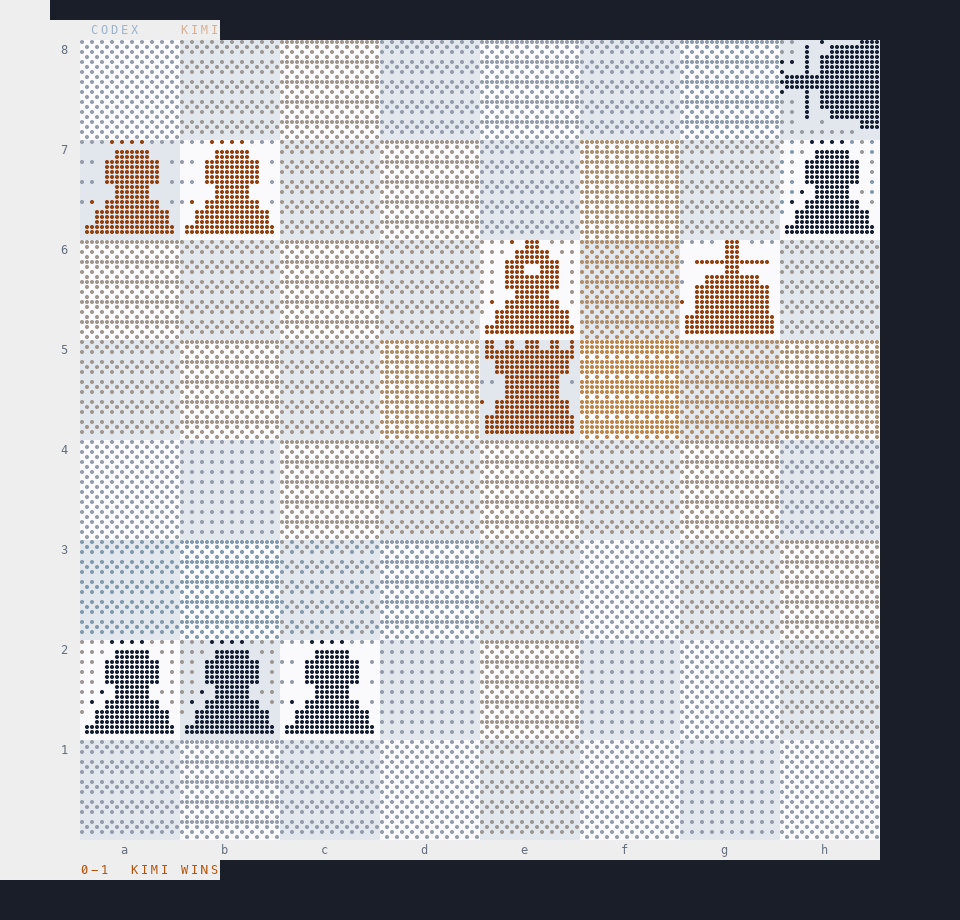
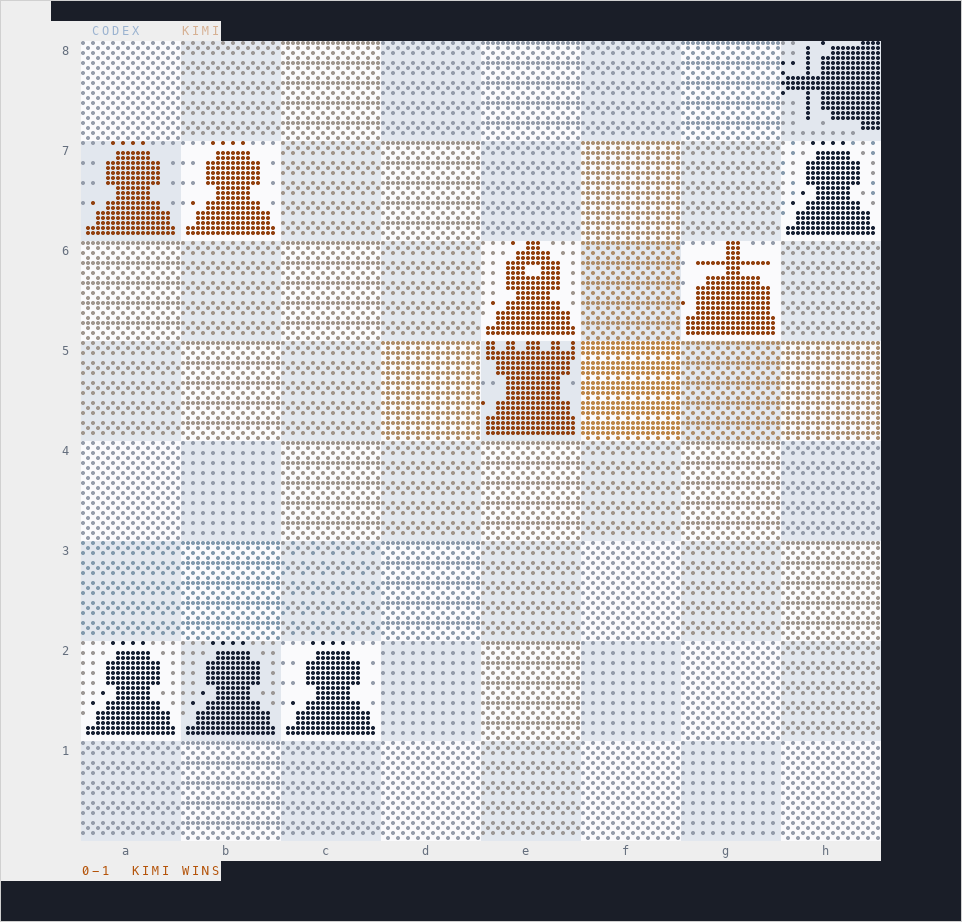
docs: restore colorful board hero, fix light backgrounds
The TUI screenshot (arcade-tui-*.gif) is lossy for the hero:
Textual quantizes the dot-field's 26 truecolor fg shades to a
256-color palette and the board shrinks to ~37px/sq inside the
terminal chrome. The canonical renderer (render_readme_media.py)
preserves full color at 120px/sq — use it as the hero instead.

- README hero: alcf-chess-replay GIFs (braille density + amber/
  blue tints at full res) with <picture> dark/light switching
- Light assets get a 1px #d0d0d0 border so panels read on
  GitHub's #ffffff page (6.7% contrast without -> 18% with)
- TUI GIF moves to Replays section as secondary demo

Changed region(s): [[0.0625, 0.0, 0.9375, 0.9435], [0.125, 0.9435, 0.2188, 0.9739]]

diff --git a/README.md b/README.md
@@ -7,18 +7,19 @@ an inspectable archive.
 
 <p align="center">
 <picture>
-  <source media="(prefers-color-scheme: dark)" srcset="docs/assets/arcade-tui-dark.gif">
-  <img src="docs/assets/arcade-tui-light.gif" alt="AI Agent Arcade Textual app replaying a verified match: animated dot-field board, match panel, scrollable decisions, and series log" width="900">
+  <source media="(prefers-color-scheme: dark)" srcset="docs/assets/alcf-chess-replay.gif">
+  <img src="docs/assets/alcf-chess-replay-light.gif" alt="MISTRAL-LARGE-4-NVFP4 vs MUSE-SPARK-BF16 (match-171, 80 plies: Fried Liver → queen sac → promotion → Qe5#) — dot-field board rendered from the archived transcript">
 </picture>
 </p>
 
-The recording above is the real Textual app replaying archived `match-171` (`MISTRAL-LARGE-4-NVFP4 0-1 MUSE-SPARK-BF16`, 80 plies: Fried Liver \u2192 queen sac \u2192 pawn promotion \u2192 `Qe5#`), captured frame-by-frame through Textual's own `App.export_screenshot()`.
-Regenerate it with:
+The replay above is the canonical dot-field renderer (`engine/tui_dots.py`) driven directly from `games/chess/match-171` — braille density, amber/blue piece tints, and influence shading preserved at full resolution (no terminal screengrab):
 
 ```bash
-uv run --with pillow python cli/record_tui_gif.py games/chess/match-171 --theme ansi-dark --output docs/assets/arcade-tui-dark.gif --frames 80 --fps 10 --width 900
-uv run --with pillow python cli/record_tui_gif.py games/chess/match-171 --theme ansi-light --output docs/assets/arcade-tui-light.gif --frames 80 --fps 10 --width 900
+uv run --with pillow python cli/render_readme_media.py games/chess/match-171
+uv run --with pillow python cli/render_readme_media.py games/chess/match-171 --palette light --suffix "-light"
 ```
+
+The live Textual app recording (panels, scrollable decisions, series log) lives in [Replays and media](#replays-and-media) below.
 
 ## Install and run
 
@@ -312,21 +313,28 @@ claimable threefold and 50-move draws.
 
 ## Replays and media
 
-The GIF and stills are recomputed from an archived transcript, not screen-
-recorded.
+The stills and GIFs below are recomputed from archived transcripts via the canonical renderers — no screengrab.
 
-<p align="center">
-<picture>
-  <source media="(prefers-color-scheme: dark)" srcset="docs/assets/alcf-chess-replay.gif">
-  <img src="docs/assets/alcf-chess-replay-light.gif" alt="Animated replay of MISTRAL-LARGE-4-NVFP4 vs MUSE-SPARK-BF16 (match-171, 80 plies: Fried Liver \u2192 Qe5#)" width="520">
-</picture>
-</p>
+**Dot-field board** — the hero art at the top of this README (match-171, full 80-ply run):
 
 ```bash
 uv run --with pillow python cli/render_readme_media.py games/chess/match-171
 uv run --with pillow python cli/render_readme_media.py games/chess/match-171 --palette light --suffix "-light"
 ```
 
+**Live Textual app** — the board embedded in panels with scrollable decisions and the series log, captured via `App.export_screenshot()`:
+
+<p align="center">
+<picture>
+  <source media="(prefers-color-scheme: dark)" srcset="docs/assets/arcade-tui-dark.gif">
+  <img src="docs/assets/arcade-tui-light.gif" alt="AI Agent Arcade Textual app — board in the left pane, match panel and scrollable decisions on the right">
+</picture>
+</p>
+
+```bash
+uv run --with pillow python cli/record_tui_gif.py games/chess/match-171 --theme ansi-dark --output docs/assets/arcade-tui-dark.gif --frames 80 --fps 10 --width 900
+uv run --with pillow python cli/record_tui_gif.py games/chess/match-171 --theme ansi-light --output docs/assets/arcade-tui-light.gif --frames 80 --fps 10 --width 900
+```
 ## Tests
 
 ```bash
